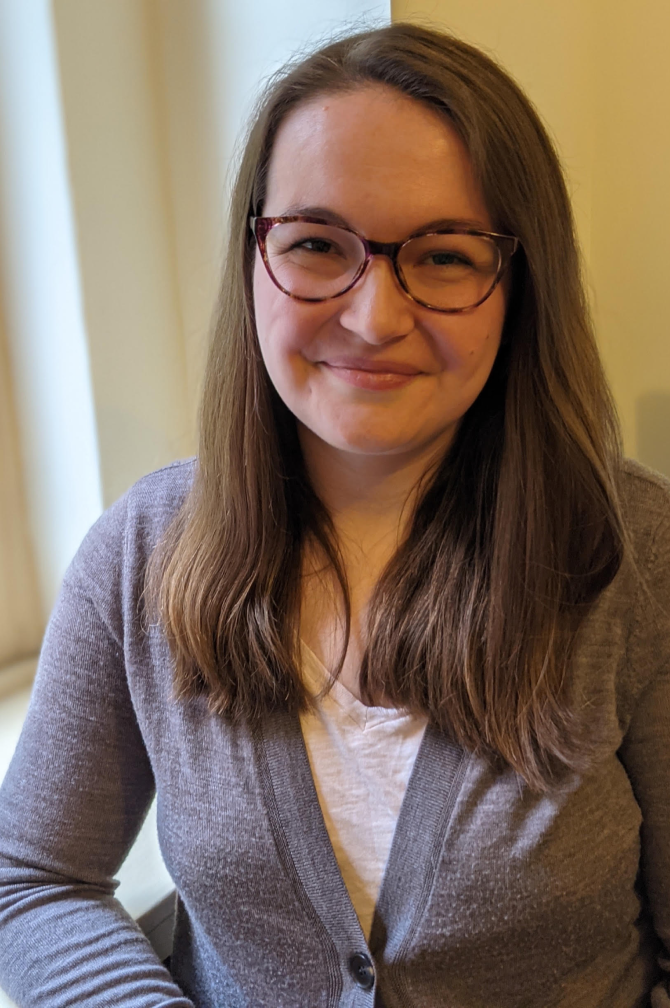
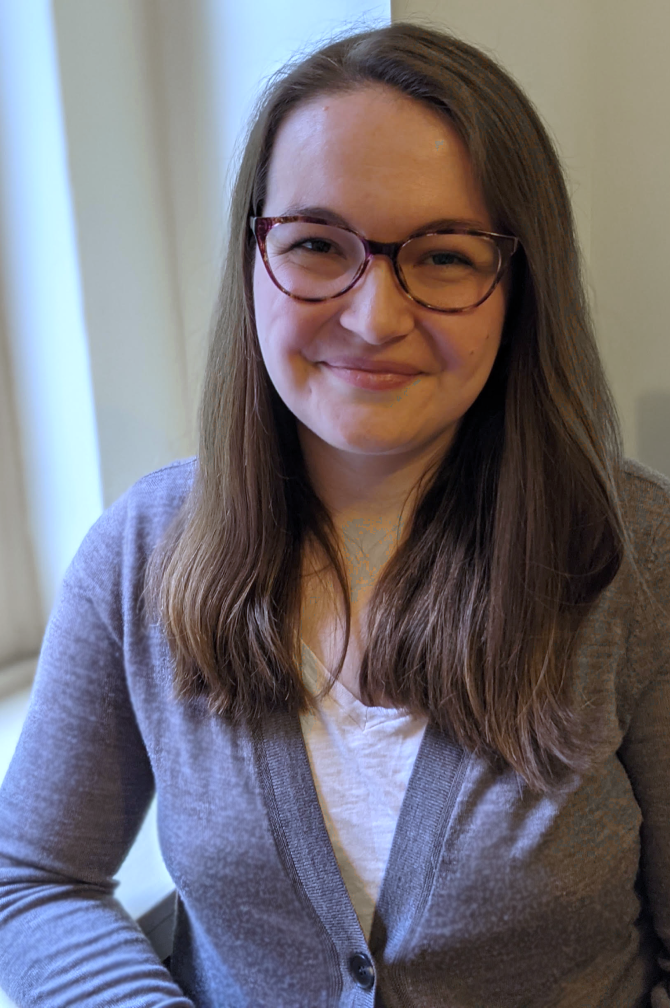
Updated text

diff --git a/about-us.html b/about-us.html
@@ -40,17 +40,17 @@
 	<div id="about-us">
         <h1 id="who-title"><b>Who We Are</b></h1>
         <div>
-            <div class="photo"> <img src="images/julia.png" style="width:200px;"> </div> 
+            <div class="photo"> <img src="images/julia.png" style="width:200px;border-radius:5%"> </div> 
             <div class="about-section"><h2>Julia Thorne</h2>
-            <p>Lorem ipsum dolor sit amet, consectetur adipiscing elit, sed do eiusmod tempor incididunt ut labore et dolore magna aliqua. Ut enim ad minim veniam, quis nostrud exercitation ullamco laboris nisi ut aliquip ex ea commodo consequat. Duis aute irure dolor in reprehenderit in voluptate velit esse cillum dolore eu fugiat nulla pariatur. Excepteur sint occaecat cupidatat non proident, sunt in culpa qui officia deserunt mollit anim id est laborum. </p>
+            <p>I’m a speech-language pathologist turned software engineering student, looking to create software that will benefit everyone with communication disorders. While there are many options out there for speech therapy apps, workbooks, and products, I saw a huge need for functional, easy-to-use materials for adults with speech, voice, and language disorders in my work as an SLP. I helped create Speech Sets to fill that need!  </p>
             </div>
-        </div>>
+        </div>
         <div>    
             
             <div class="about-section"><h2>Sheila Wang</h2>
-                <p>Lorem ipsum dolor sit amet, consectetur adipiscing elit, sed do eiusmod tempor incididunt ut labore et dolore magna aliqua. Ut enim ad minim veniam, quis nostrud exercitation ullamco laboris nisi ut aliquip ex ea commodo consequat. Duis aute irure dolor in reprehenderit in voluptate velit esse cillum dolore eu fugiat nulla pariatur. Excepteur sint occaecat cupidatat non proident, sunt in culpa qui officia deserunt mollit anim id est laborum. </p>
+                <p>I’m a UX/UI designer and Technical Support Engineer currently studying software engineering. I have always been interested in applying my technical skills to a product that would make a difference, and Speech Sets was created when Julia and I met and started talking about the needs in the SLP community. Aside from my work and my studies, my main hobby is caring for my two adorable dogs!</p>
             </div>
-            <div class="photo"> <img src="images/sheila.png" style="width:200px;"> </div> 
+            <div class="photo"> <img src="images/sheila.png" style="width:200px;border-radius:5%"> </div> 
         </div>
     </div>
 

diff --git a/index.html b/index.html
@@ -60,12 +60,11 @@
 		
 		<div id="why-inner-box"> 
 			<h2>Why Speech Sets?</h2>
-			<p>"Lorem ipsum dolor sit amet, consectetur adipiscing elit, sed do eiusmod tempor incididunt
-			ut labore et dolore magna aliqua. Ut enim ad minim veniam, quis nostrud exercitation ullamco laboris nisi ut
-			aliquip ex ea commodo consequat. Duis aute irure dolor in reprehenderit in voluptate velit esse cillum
-			dolore eu fugiat nulla pariatur. Excepteur sint occaecat cupidatat non proident, sunt in culpa qui officia
-			deserunt mollit anim id est laborum."
-			</p>
+			<p style="padding-top:25px">Because sometimes, you don't want to practice your speech with cutesy pictures, or words you don't care about, or the same old workbooks. </p>
+			<p>Sometimes, you just need a list of words tailored to <i>you</i>.</p>
+			<p>One in 20 U.S. adults report difficulty communicating (NHIS 2019), yet most speech therapy 
+			<br>materials are geared towards kids. Speech Sets can be used to create simple and 
+			<br>functional materials for adults to practice their speech with dignity.</p>
 		</div>
 		<img src="images/humaan2.png" style="position:absolute;width:260px;z-index:9;left:900px;top:375px;">
 	</div>
@@ -75,7 +74,7 @@
 		<img src ="images/lamp.png" style="position:absolute;z-index: 9;left:65px;top:15px;height:550px">
 		<div id="how-inner-box1"> 
 		<div id = "how-inner-box2">
-			<h2 style="padding-left:200px">How to Use This Tool</h2> 
+			<h2 style="padding-left:175px">How to Use This Tool</h2> 
 		</div>
 		</div>
 		

diff --git a/main.css b/main.css
@@ -38,7 +38,7 @@ h1 {
 	font-size: 50px;
 }
 h2 {
-	font-size: 24px;
+	font-size: 30px;
 	/* text-align: center; */
 }
 
@@ -152,6 +152,11 @@ h2 {
 	position: relative;
 }
 
+#why-section p {
+	padding-left: 25px;
+	font-size: 25px;
+}
+
 #why-inner-box {
 	height: 470px;
 	padding: 20px 20px 20px 30px;
@@ -159,6 +164,8 @@ h2 {
 	position:relative;
 	border-radius: 49px;
 }
+
+
 
 #why-picture {
 	position:absolute;
@@ -196,15 +203,14 @@ h2 {
 .photo {
 	display: inline-block;
 	position:relative;
-	padding: 0 50px 0 50px;
+	padding: 50px 50px 50px 50px;
 }
 
 .about-section {
 	display: inline-block;
 	position:relative;
 	width: 700px;
-	padding-left:50px;
-	padding-right:50px;
+	padding: 50px 25px 0 25px;
 	text-align: left;
 	vertical-align: top;
 	line-height: normal;
